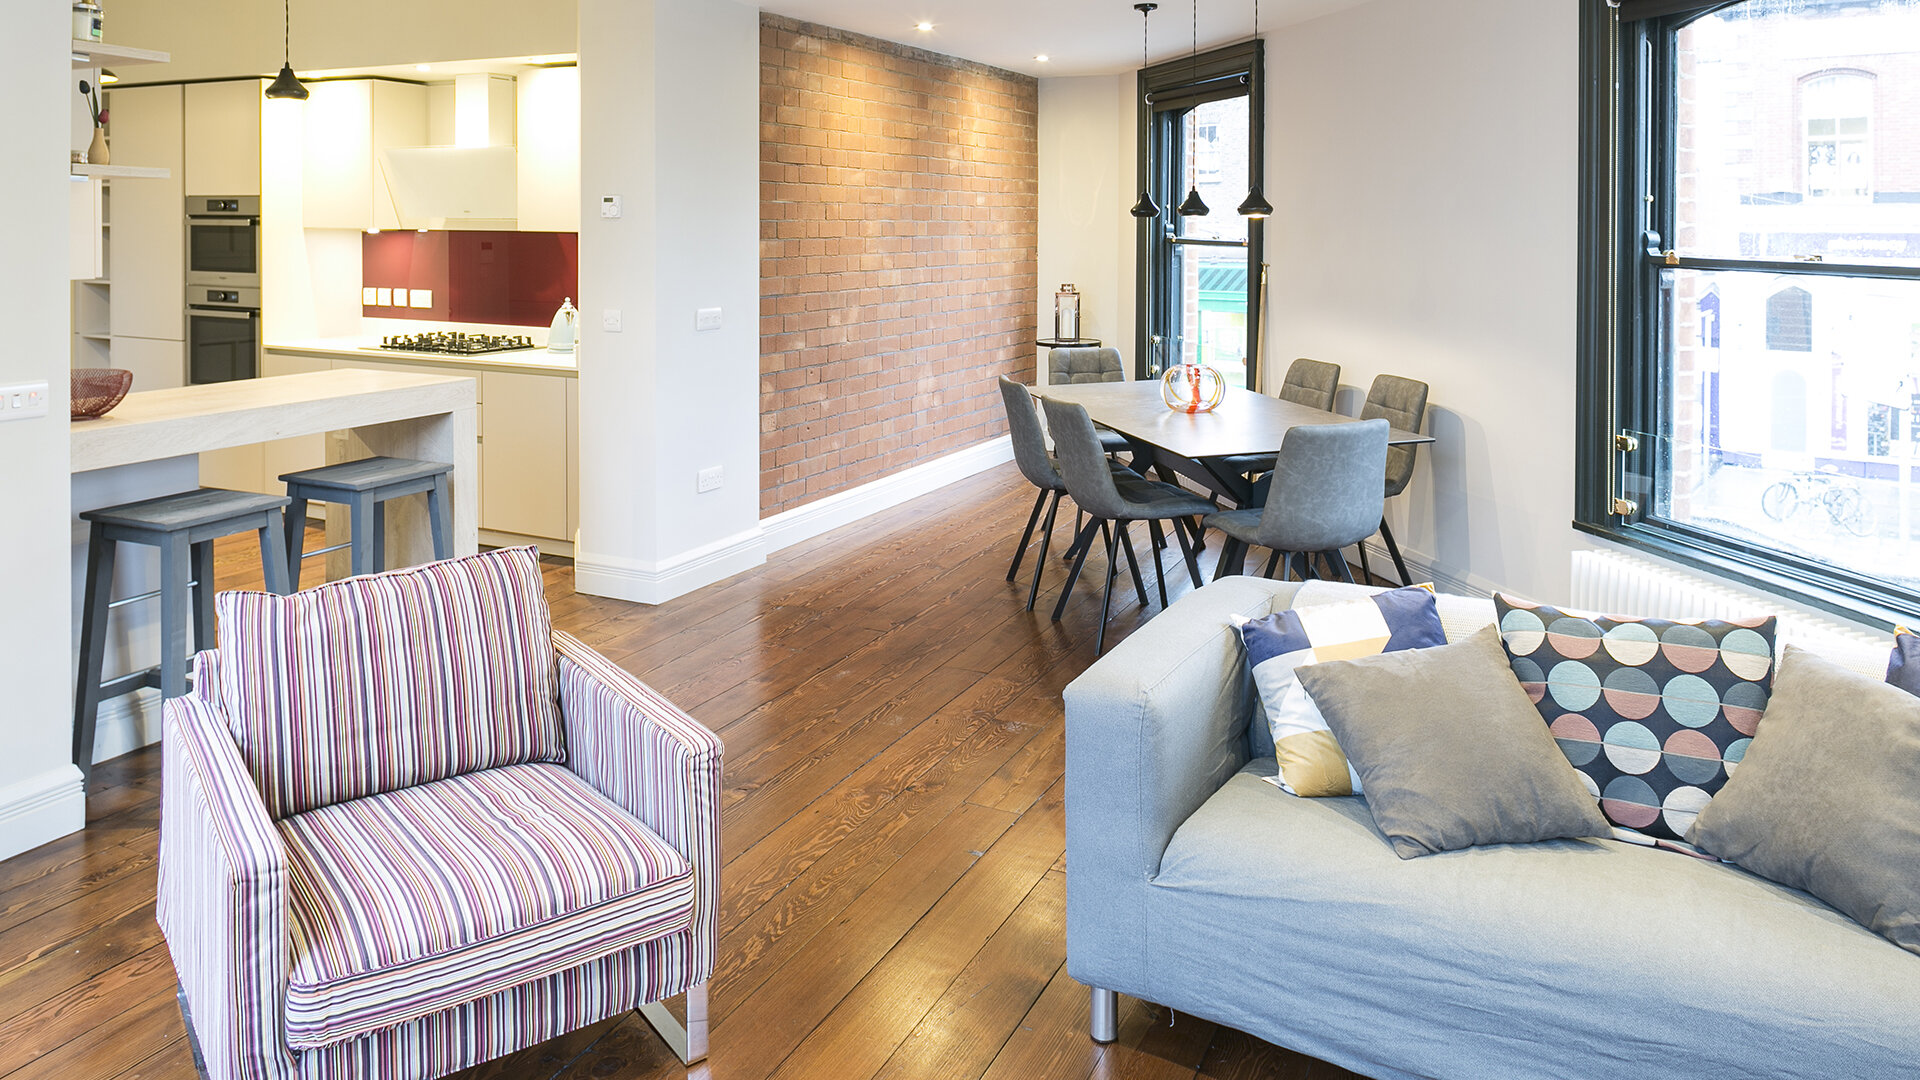
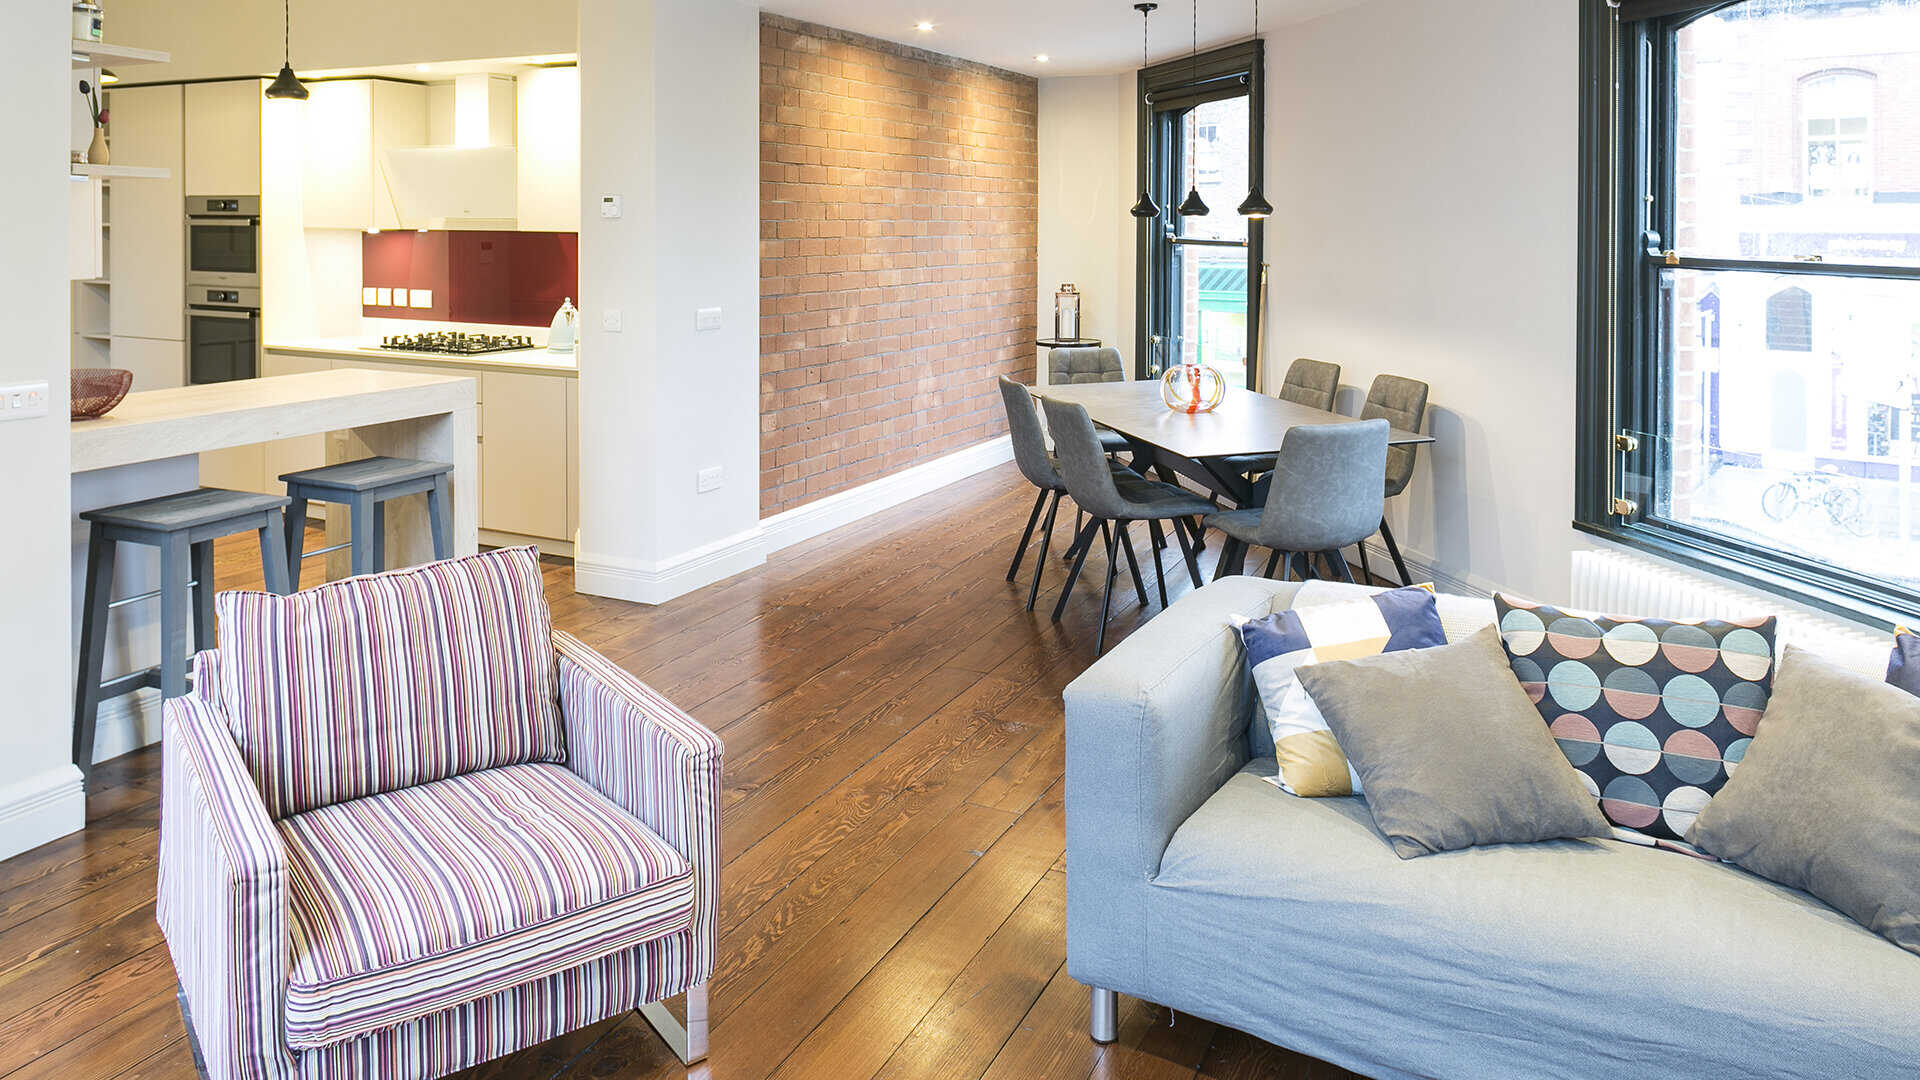
Have replaced the living_kitchen image with a smaller image to improve load time

diff --git a/testing.md b/testing.md
@@ -10,13 +10,9 @@ Main [README.MD](readme2.md) file
  * 1.1 Validation Testing
  * 1.2 Lighthouse Testing 
 
-### **2. User Stories Testing**
-  * 2.1 Visitor Stories 
-  * 2.1 Business Stories 
-
-### **3. Manual Testing**
-  * 3.1 Manual Testing Desktop
-  * 3.2 Manual Testing Tablet/Mobile
+### **2. Manual Testing**
+  * 2.1 Manual Testing Desktop
+  * 2.2 Manual Testing Tablet/Mobile
 >
 ## **1. Automated Testing**
 
@@ -31,19 +27,12 @@ For validation testing i used the following:
 
 I also used the Google Chrome tool Lighthouse for the testing of the website and its performance. After running lighthouse the results of the test for the website came back as:
 
-<br>
-
 ![Website page score in lighthouse](assets/images/lighthouse-page-score.png)
 
-
-A link to the full report from Lighthouse can be viewed by clicking on this link: [Lighthouse Report](https://googlechrome.github.io/lighthouse/viewer/?psiurl=https%3A%2F%2F8000-af291999-46ae-4efb-9d98-27ba5f6f419e.ws-eu03.gitpod.io%2F&strategy=mobile&category=performance&category=accessibility&category=best-practices&category=seo&category=pwa&utm_source=lh-chrome-ext)
 >
-## **2. User Stories Testing**
+## **2. Manual Testing**
 
->
-## **3. Manual Testing**
-
-### **3.1 Manual Testing - Desktop** 
+### **2.1 Manual Testing - Desktop** 
 
 All desktop testing was carried out on Chrome, FireFox and Safari.
 
@@ -89,7 +78,7 @@ All desktop testing was carried out on Chrome, FireFox and Safari.
   * After the form has been correctly completed and the user presses send message the user is them brought to a confirmation page that confirms the business has received their message and will contact them. 
   * On the confirmation page there is also a button the user can click to bring them back to the main site. I have tested this and can confirm it does bring you back tot he main site.  
 
-### **3.2 Manual Testing - Tablet/Mobile** 
+### **2.2 Manual Testing - Tablet/Mobile** 
 
 All mobile testing was carried out on google Chrome and FireFox on the following devices:
 
